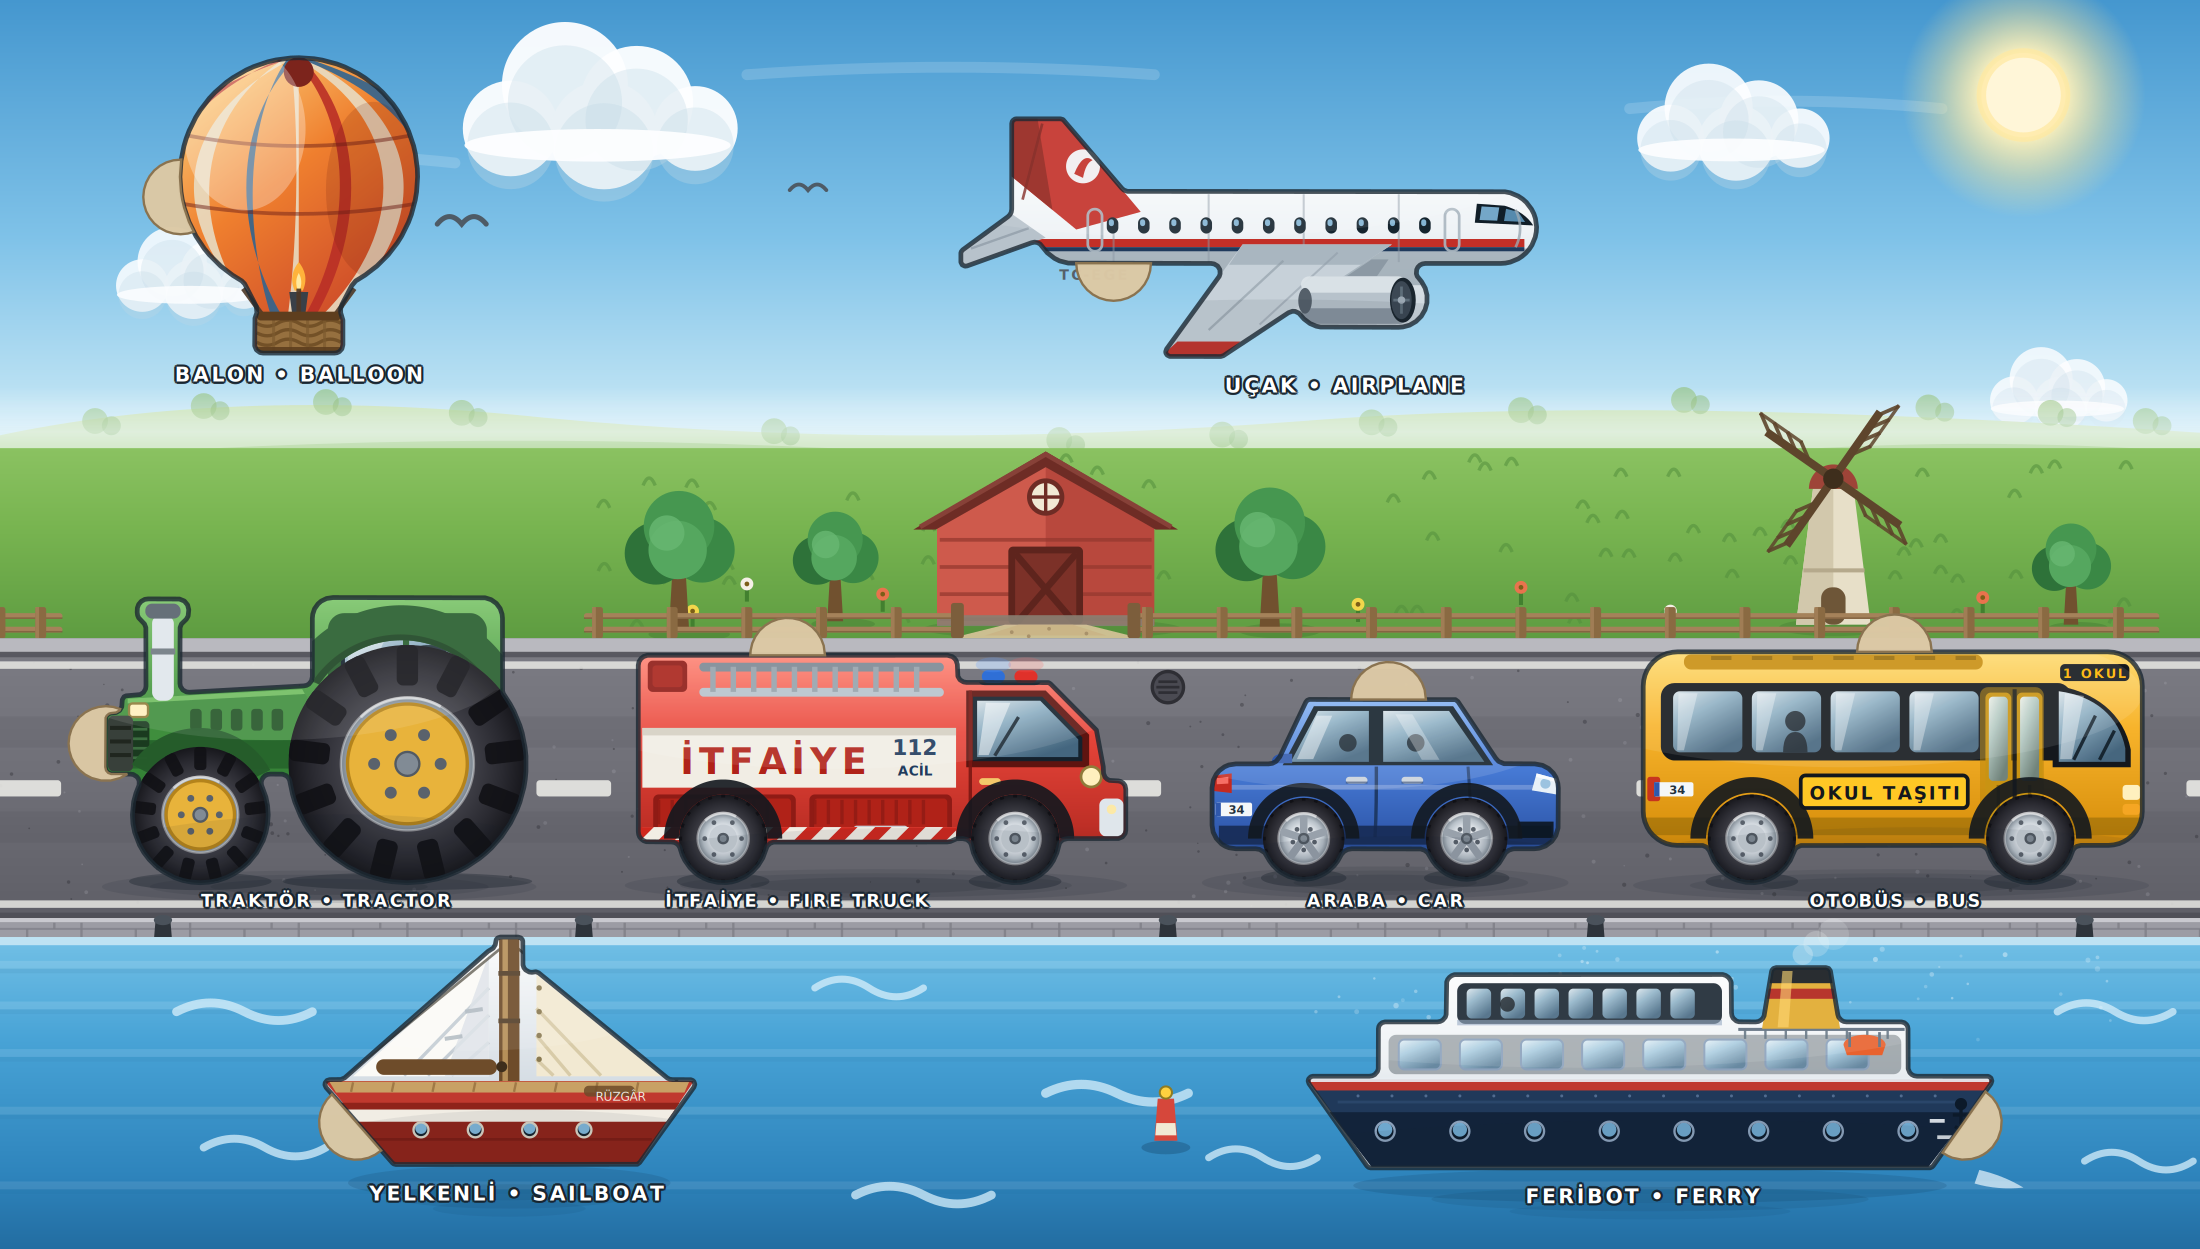
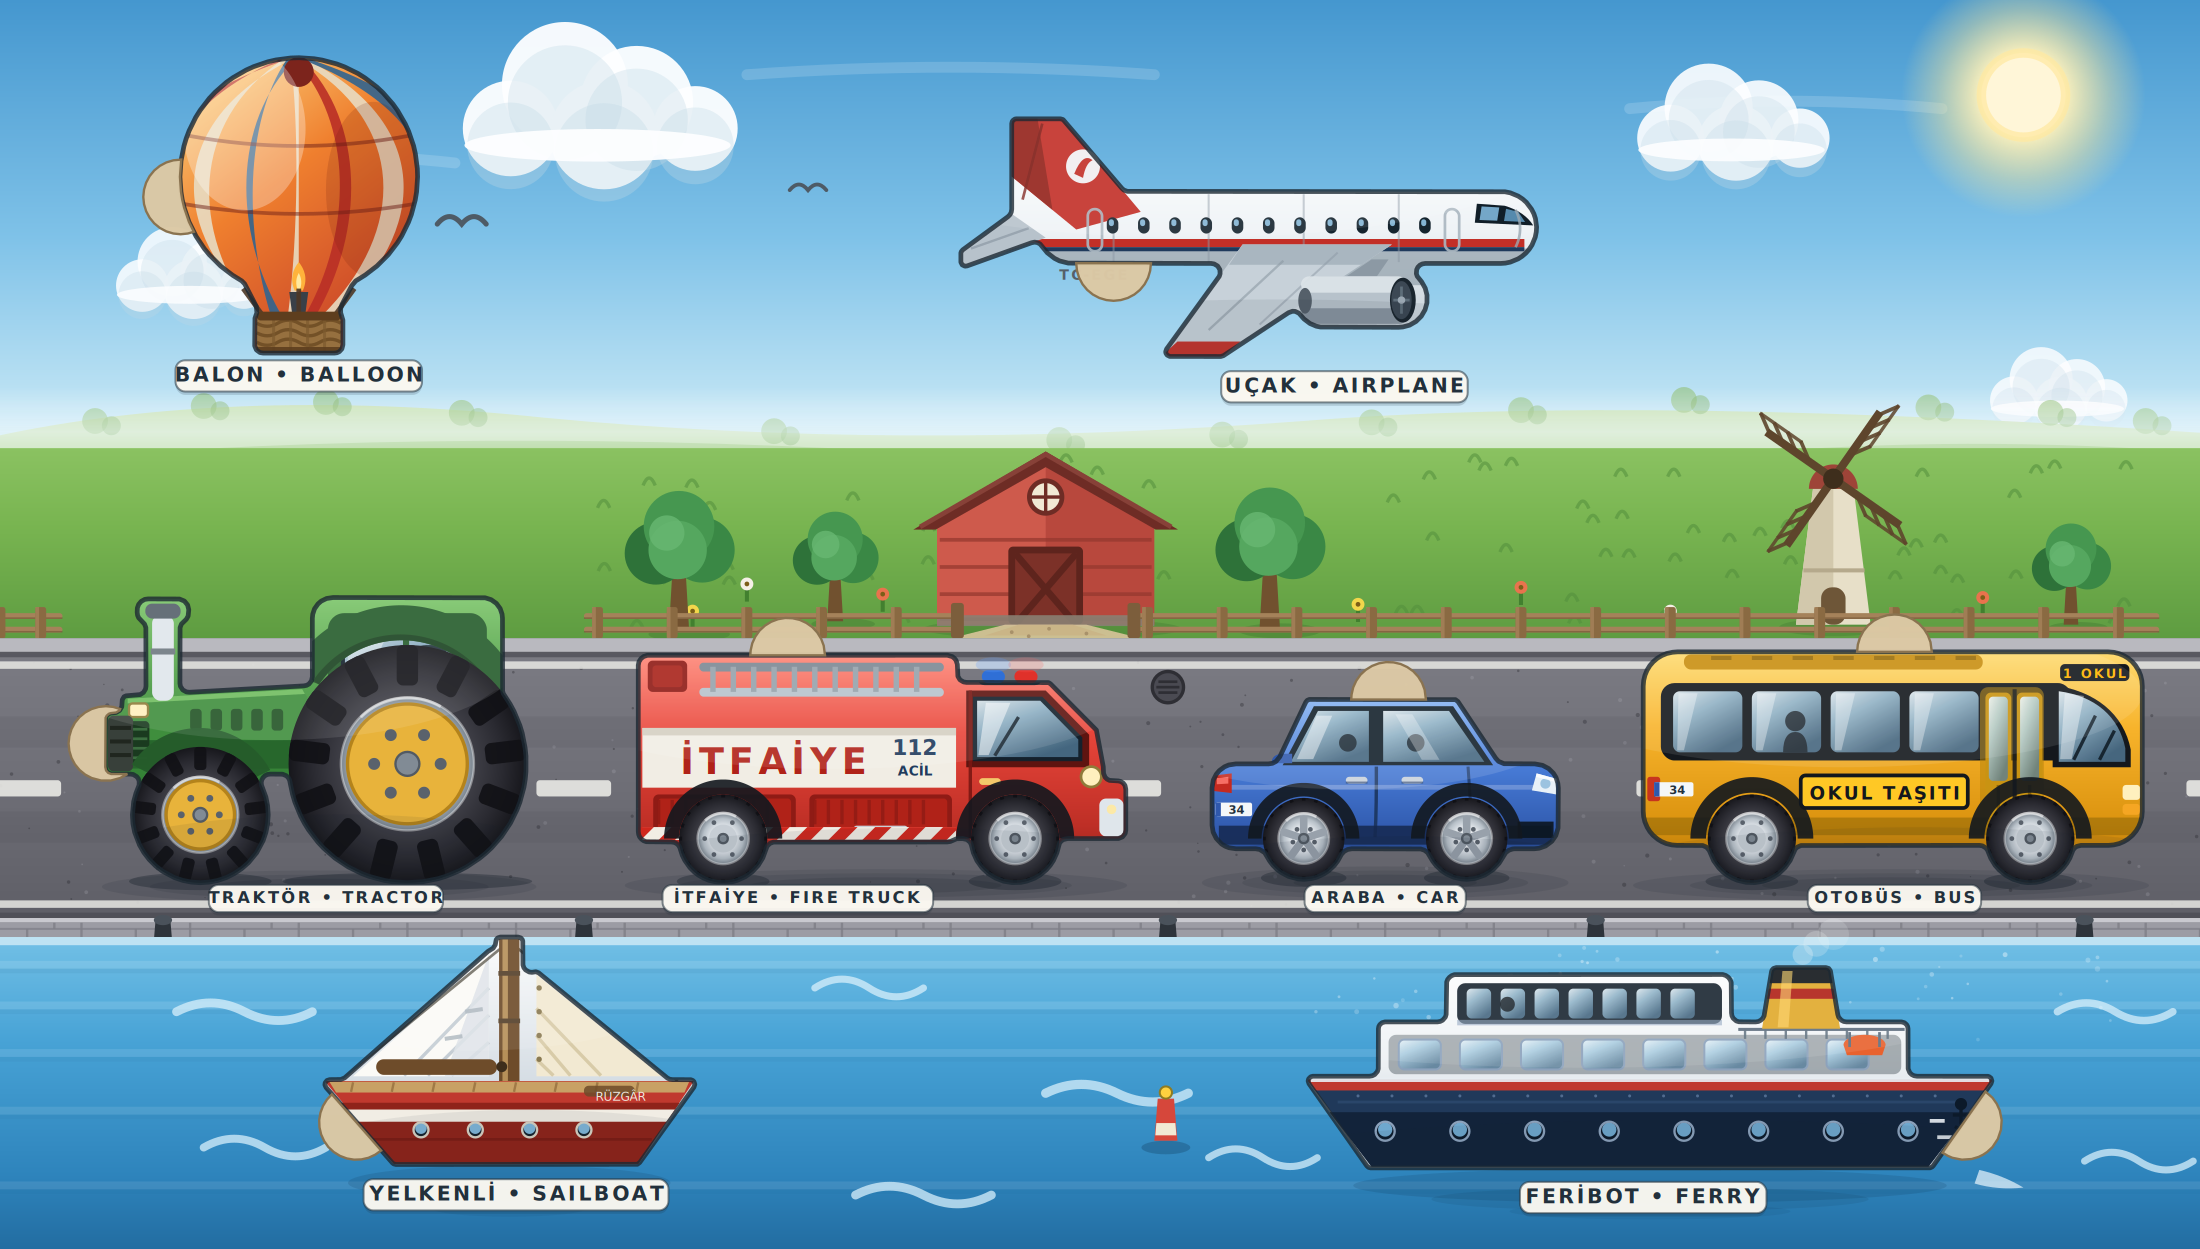
İsim etiketlerini krem plakalar üzerine al
Haleli beyaz metin yerine: yuvarlatılmış köşeli krem plaka (ince koyu
çerçeve + hafif gölge) üstünde koyu lacivert kalın yazı. Plaka genişliği
metin uzunluğundan otomatik hesaplanır. Yol şeridindeki etiketler rıhtım
çizgisiyle çakışmasın diye 2.4 mm punto ile hizalandı. Kesim geometrisi
değişmedi.

Claude-Session: https://claude.ai/code/session_01CVTwu8w6PhS39mmYAULPaL

diff --git a/temalar/araclar/olustur.py b/temalar/araclar/olustur.py
@@ -205,10 +205,10 @@ YUVALAR = _yuva_hesapla()
 ETIKETLER = {                     # Türkçe • İngilizce isimler (yuvalardan uzakta)
     "balon":    ("BALON", "BALLOON", 42, 54.2, 3.0),
     "ucak":     ("UÇAK", "AIRPLANE", 196, 55.8, 3.0),
-    "traktor":  ("TRAKTÖR", "TRACTOR", 46, 131.55, 2.6),
-    "itfaiye":  ("İTFAİYE", "FIRE TRUCK", 115.5, 131.55, 2.6),
-    "araba":    ("ARABA", "CAR", 202, 131.55, 2.6),
-    "otobus":   ("OTOBÜS", "BUS", 277, 131.55, 2.6),
+    "traktor":  ("TRAKTÖR", "TRACTOR", 46, 131.0, 2.4),
+    "itfaiye":  ("İTFAİYE", "FIRE TRUCK", 115.5, 131.0, 2.4),
+    "araba":    ("ARABA", "CAR", 202, 131.0, 2.4),
+    "otobus":   ("OTOBÜS", "BUS", 277, 131.0, 2.4),
     "yelkenli": ("YELKENLİ", "SAILBOAT", 74, 174.8, 3.0),
     "feribot":  ("FERİBOT", "FERRY", 240, 175.2, 3.0),
 }
@@ -391,14 +391,18 @@ def teker(e, cx, cy, r, stil="araba"):
 
 
 def etiket(e, x, y, tr, en, boyut=3.0):
-    """Beyaz, koyu haleli parça adı: TÜRKÇE • İNGİLİZCE."""
+    """Krem plaka üstünde koyu parça adı: TÜRKÇE • İNGİLİZCE."""
     metin = f"{tr} • {en}"
-    for dx, dy in [(-0.35, 0), (0.35, 0), (0, -0.35), (0, 0.35),
-                   (-0.25, -0.25), (0.25, -0.25), (-0.25, 0.25), (0.25, 0.25)]:
-        e.append(_el("text", x=x + dx, y=y + dy, icerik=metin, fill="#17242E",
-                     font_size=boyut, font_family="sans-serif", font_weight="bold",
-                     text_anchor="middle", letter_spacing="0.35", opacity="0.85"))
-    e.append(_el("text", x=x, y=y, icerik=metin, fill="#FFFFFF", font_size=boyut,
+    w = len(metin) * boyut * 0.60 + (len(metin) - 1) * 0.35 + 4.4
+    h = boyut + 1.6
+    cy = y - 0.28 * boyut
+    e.append(_el("rect", x=x - w / 2, y=cy - h / 2 + 0.5, width=w, height=h, rx=1.4,
+                 fill="#14212C", opacity=0.16))
+    e.append(_el("rect", x=x - w / 2, y=cy - h / 2, width=w, height=h, rx=1.4,
+                 fill="#FCF9F1", opacity=0.96))
+    e.append(_el("rect", x=x - w / 2, y=cy - h / 2, width=w, height=h, rx=1.4,
+                 fill="none", stroke="#26343F", stroke_width=0.3, opacity=0.55))
+    e.append(_el("text", x=x, y=y, icerik=metin, fill="#22303B", font_size=boyut,
                  font_family="sans-serif", font_weight="bold", text_anchor="middle",
                  letter_spacing="0.35"))
 
